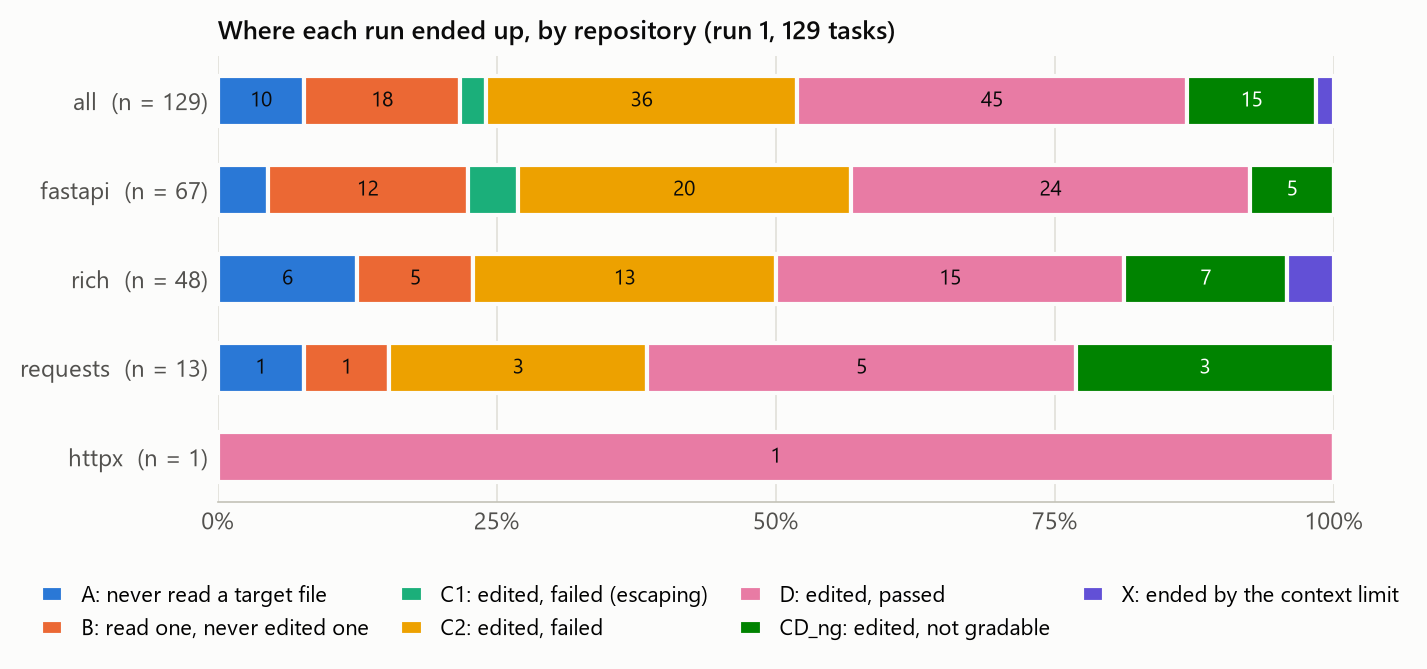
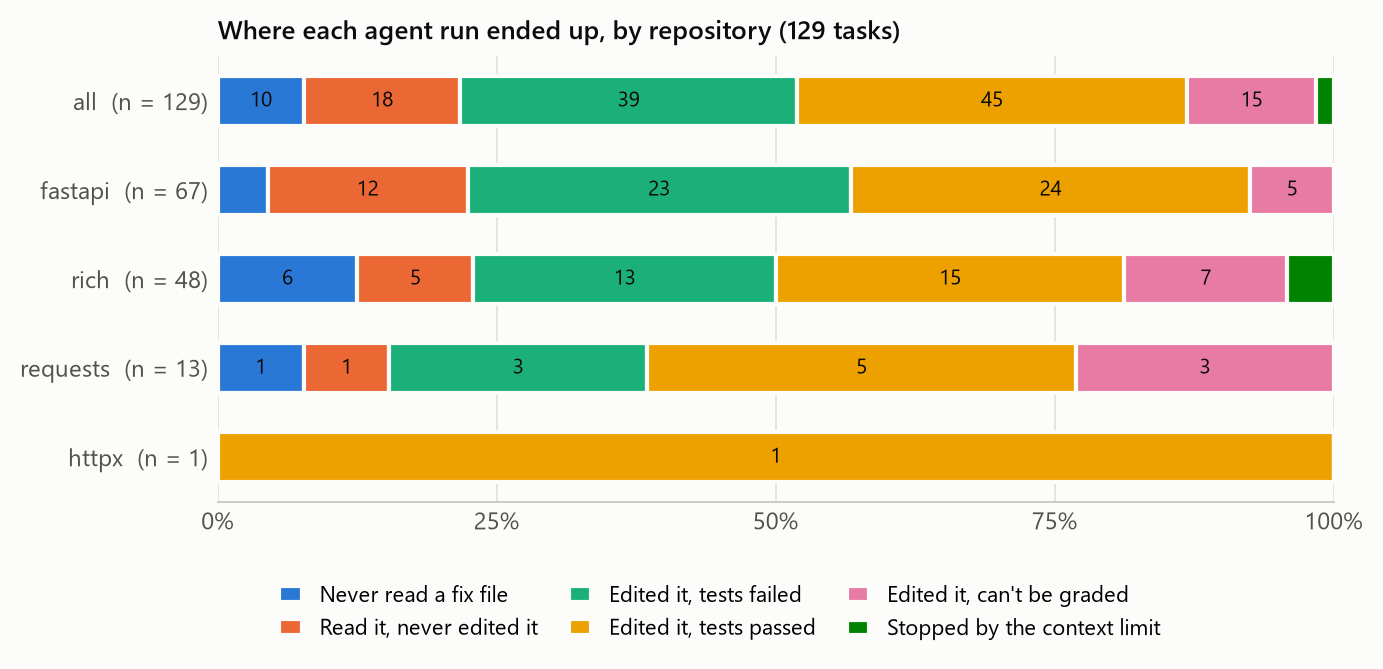
Relabel F1 and F2 in plain language for the paper
F1 groups the outcome categories under readable names (escaping failures
merged into failed edits) via BREAKDOWN/breakdown_counts; F2 says agent and
fix file. docs/breakdown.png regenerated.

diff --git a/src/navalign/figures.py b/src/navalign/figures.py
@@ -1,8 +1,9 @@
 """Paper figures F1–F4 from the files `navalign.analysis`, `navalign.score` and `navalign.validity`
 write into one output dir. Needs the `analysis` extra (matplotlib).
 
-- F1 `f1_breakdown.png`          failure breakdown per repo (100% stacked bars)
-- F2 `f2_first_read.png`         share of tasks that have read a target file by call k, real vs random
+- F1 `f1_breakdown.png`          failure breakdown per repo (100% stacked bars), in the plain-language groups
+                                 of `BREAKDOWN`
+- F2 `f2_first_read.png`         share of tasks that have read a fix (target) file by call k, agent vs random
                                  (needs `random_k.csv` from `navalign.validity baselines`)
 - F3 `f3_scores_by_outcome.png`  S_file, focus and S_node of the runs that found a target file, by outcome
 - F4 `f4_trajectories.png`       d of every read call in the window for three runs
@@ -35,6 +36,15 @@ GAP = 1.5  # surface gap between touching fills, and the ring around dots
 DOT = 18  # marker area (points²), ~8px across
 OUTCOME_GROUPS = {"B": ("B",), "C": ("C1", "C2"), "D": ("D",), "CD_ng": ("CD_ng",)}
 CASE_CATEGORIES = ("D", "B", "A")
+# F1's legend, for readers who haven't met the category codes; escaping failures (C1) count as failed edits
+BREAKDOWN = {
+    "Never read a fix file": ("A",),
+    "Read it, never edited it": ("B",),
+    "Edited it, tests failed": ("C1", "C2"),
+    "Edited it, tests passed": ("D",),
+    "Edited it, can't be graded": ("CD_ng",),
+    "Stopped by the context limit": ("X",),
+}
 
 
 def _rc() -> dict:
@@ -64,10 +74,17 @@ def _save(fig: Figure, path: Path) -> Path:
     return path
 
 
-def fig_breakdown(outcomes: pd.DataFrame, path: Path) -> Path:
-    counts = pd.crosstab(outcomes["repo"], outcomes["category"]).reindex(columns=list(CATEGORIES), fill_value=0)
+def breakdown_counts(outcomes: pd.DataFrame) -> pd.DataFrame:
+    """Runs per repo (rows, fewest first, then "all") and `BREAKDOWN` group (columns)."""
+    by_category = pd.crosstab(outcomes["repo"], outcomes["category"]).reindex(columns=list(CATEGORIES), fill_value=0)
+    counts = pd.DataFrame({label: by_category[list(categories)].sum(axis=1) for label, categories in BREAKDOWN.items()})
     counts = counts.loc[counts.sum(axis=1).sort_values().index]
     counts.loc["all"] = counts.sum()
+    return counts
+
+
+def fig_breakdown(outcomes: pd.DataFrame, path: Path) -> Path:
+    counts = breakdown_counts(outcomes)
     totals = counts.sum(axis=1)
     shares = counts.div(totals, axis=0)
     with mpl.rc_context(_rc()):
@@ -75,11 +92,10 @@ def fig_breakdown(outcomes: pd.DataFrame, path: Path) -> Path:
         ax = fig.subplots()
         y = np.arange(len(counts))
         left = np.zeros(len(counts))
-        for color, category in zip(SERIES, CATEGORIES, strict=True):
-            width = shares[category].to_numpy()
-            ax.barh(y, width, left=left, height=0.56, color=color, edgecolor=SURFACE, linewidth=GAP,
-                    label=f"{category}: {CATEGORIES[category]}")
-            for yi, (w, n) in enumerate(zip(width, counts[category], strict=True)):
+        for color, label in zip(SERIES, BREAKDOWN, strict=False):
+            width = shares[label].to_numpy()
+            ax.barh(y, width, left=left, height=0.56, color=color, edgecolor=SURFACE, linewidth=GAP, label=label)
+            for yi, (w, n) in enumerate(zip(width, counts[label], strict=True)):
                 if w >= 0.06:  # only where the count fits inside the segment
                     ax.text(left[yi] + w / 2, yi, str(n), ha="center", va="center", fontsize=7.5, color=_label_color(color))
             left += width
@@ -89,8 +105,8 @@ def fig_breakdown(outcomes: pd.DataFrame, path: Path) -> Path:
         ax.xaxis.grid(True)
         ax.set_axisbelow(True)
         ax.spines["left"].set_visible(False)
-        ax.set_title("Where each run ended up, by repository (run 1, 129 tasks)")
-        ax.legend(loc="upper center", bbox_to_anchor=(0.45, -0.14), ncol=4, handlelength=1, columnspacing=1.4)
+        ax.set_title(f"Where each agent run ended up, by repository ({totals['all']} tasks)")
+        ax.legend(loc="upper center", bbox_to_anchor=(0.45, -0.14), ncol=3, handlelength=1, columnspacing=1.4)
         return _save(fig, path)
 
 
@@ -102,7 +118,7 @@ def fig_first_read(outcomes: pd.DataFrame, random_k: pd.DataFrame, path: Path) -
     with mpl.rc_context(_rc()):
         fig = Figure(figsize=(6.4, 3.2))
         ax = fig.subplots()
-        for (name, ks), color in zip({"run 1": real, "random reads": rand}.items(), SERIES, strict=False):
+        for (name, ks), color in zip({"agent": real, "random reads": rand}.items(), SERIES, strict=False):
             share = np.array([(ks <= x).mean() for x in xs])
             ax.step(xs, share, where="post", color=color, linewidth=LINE, label=name)
             never = ks.isna().mean()
@@ -114,8 +130,8 @@ def fig_first_read(outcomes: pd.DataFrame, random_k: pd.DataFrame, path: Path) -
         ax.yaxis.grid(True)
         ax.set_axisbelow(True)
         ax.set_xlabel("call number in the trace (k)")
-        ax.set_ylabel("tasks that have read a target file")
-        ax.set_title(f"First read of a target file (S_file = 1/k), {len(real)} tasks")
+        ax.set_ylabel("tasks that have read a fix file")
+        ax.set_title(f"First read of a fix file, {len(real)} tasks")
         ax.legend(loc="lower right", bbox_to_anchor=(1, 0.08))
         return _save(fig, path)
 

diff --git a/tests/test_analysis.py b/tests/test_analysis.py
@@ -127,6 +127,18 @@ def test_cli_on_run1_writes_the_tables(tmp_path):
     assert len(pd.read_csv(tmp_path / "t4_predictive.csv")) == 24  # 3 outcomes x 8 predictors
 
 
+def test_f1_groups_merge_escaping_failures_into_failed_edits():
+    pytest.importorskip("matplotlib")
+    from navalign.figures import BREAKDOWN, breakdown_counts
+
+    counts = breakdown_counts(_outcomes())
+    assert list(counts.columns) == list(BREAKDOWN)
+    assert list(counts.index) == ["fastapi", "rich", "all"]
+    assert counts.loc["rich", "Edited it, tests failed"] == 1  # rich_5, C1
+    assert counts.loc["all", "Edited it, tests failed"] == 2  # + fastapi_4, C2
+    assert counts.loc["all"].sum() == len(_outcomes())
+
+
 def test_figures_render_and_skip_missing_inputs(tmp_path, capsys):
     pytest.importorskip("matplotlib")
     from navalign.figures import draw_all, pick_cases
